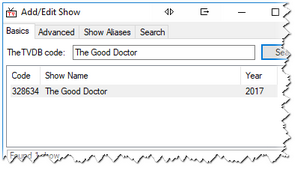
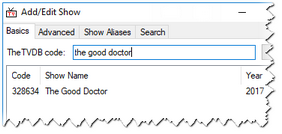
More updates and some style tweaks

diff --git a/assets/css/style.scss b/assets/css/style.scss
@@ -26,7 +26,7 @@
     padding: 0 0 10px 25px;
 }
 
-h1, h2 {
+h1, h2, h4 {
    color: #3399cc;
 }
 	
@@ -46,6 +46,10 @@ h2 a:hover, a:active {
     border-bottom: 3px solid #3399cc;
 }
 
+h4 {
+    font-size: 28px;
+    font-weight: bold;
+}
 p a:link, a:visited {
     font-weight: bold;
 }

diff --git a/userguide.md b/userguide.md
@@ -1,5 +1,5 @@
-# User Guide
-## Introduction...
+#### User Guide
+## Introduction
 As I write this guide Version 2.24 of TV Rename is out-in-the-wild and Version 2.3 is in beta making it "quite interesting" trying to keep stuff up to date. We'll do our best but any suggestions for improvements, or offers of help are more than welcome.
 
 **Note:** Comparing the live and beta versions most of the features are the same, or similar. The most recent changes have been regarding enterng show information (***Shows and Folders***), and using [theTVDB.com](http://thetvdb.com "Visit theTVDB.com") as the reference database rather than tv.com.
@@ -8,11 +8,11 @@ If you're new to TV Rename you're should probably read the [Quickstart Guide](qu
 
 If you need help, please sign up to the [forum](https://groups.google.com/forum/#!forum/tvrename "Visit the TVRename forum"), someone there will be happy to help.
 
-### Lets (not) start at the begining...
+### Lets (not) start at the beginning...
 In true technical manual fashion we're going to start at the end because, as is so often the case, it makes sense to see where your going to help figure out how to get there.
 
 ## "When to watch"
-Once you have TV Rename up and running and behaving the way you want you'll probably spend most of your time here. If you wish you can make this tab open by default by changing the startup tab in the ***General*** tab of **Options>Preferences**.
+Once you have TV Rename up and running and behaving the way you want you'll probably spend most of your time here. If you wish you can make this tab open by default by changing the Startup tab setting in the ***General*** tab of **Options>Preferences**.
 
 ![When To Watch](images/userguide/when-to-watch-01.png)
 
@@ -42,12 +42,10 @@ My Shows is where you tell TV Rename about the TV Shows you are watching (or hav
 In essence this tab (along with some of the preferences) allows you to configure the interaction between  [The TVDB](http://thetvdb.com "Visit thetvdb.com") and your "Media Library". Incidently there can be multiple storage locations including local paths or drives on your computer, mapped network shares and UNC paths. The only restrictions being that a TV Show cannot be spread across multiple locations, and removable USB drives should be set up so they always get the same path or drive letter assigned to them each time they are used. 
 
 Here, you can see a number of shows listed in the left hand panel of the window. These are the shows that TV Rename is monitoring, if a show is in your "Media Library" it will have further information associated with it (its "home" directory in the "Media Library" for example, but there is much more). In the right hand panel you can read details about the highlighted show gleaned from [The TVDB](http://thetvdb.com "Visit thetvdb.com"). 
-
 ![My Shows](images/userguide/my-shows-01.png)
-
 Below these panels are a series of buttons which allow you to manage the content. They are: -
 
-* {:.no-icon} `Add` - Adds a new show to the list. Remember you will need to add folders to for the show separately if you need to monitor it in the "Media Library". You don't need to add a folder if you only want to see the shows airdates in the ***[When to Watch](#when-to-watch "go to "When to Watch")*** tab.
+* {:.no-icon} `Add` - Adds a new show to the list. Remember you will need to add folders to for the show separately if you need to monitor it in the "Media Library". You don't need to add a folder if you only want to see the shows air-dates in the ***[When to Watch](#when-to-watch "go to "When to Watch")*** tab.
 
 * {:.no-icon} `Edit` - Edit the currently selected show.
 
@@ -59,7 +57,7 @@ Below these panels are a series of buttons which allow you to manage the content
 
 * {:.no-icon} `Details` - Toggle between showing and hiding the Detais Panel. If the panel is hidden the Show List panel expands to fill the tab.
 
-* {:.no-icon} `Open` - Opens the directory fore the highlighted show or season in explorer.
+* {:.no-icon} `Open` - Opens the directory for the highlighted show or season in explorer.
 
 * {:.no-icon} `Visit TVDB` - Visit The TVDB page for highlighted show or season.
 
@@ -71,21 +69,18 @@ Clicking the `Edit` button with a show highlighted will open the same window pre
 
 Clicking `Edit` with the **season** of a show highlighted will open the *Edit Season Rules* window - *more on this later...*
 
-Most of the information required to setup a new show needs to be entered in the ***Basics*** tab (illustrated).
-
-![addeditshow](images/userguide/addeditshow.png)
-![tvcomsearch](images/userguide/tvcomsearch.png)
+We'll start by completing the ***Basics*** tab (illustrated).
 
 In the following example, we'll add a new show called "The Good Doctor" to TV Rename.
 
 ![Add/Edit Show - Search Results](images/userguide/add-edit-show-02.png){:.pic-r}
-The first step is to enter TheTVDB's code for the show. If you know it, you can type it directly into the box, otherwise type the show's name (e.g. "The Good Doctor") and click on `Search`. TV Rename will search for matches to the text in TheTVDB's database, cache the results locally and display the matches. The search also works with partial show names. For example you could search for just "Doctor", but "Doctor" being fairly common in TV Show titles, returns over 80 results (including ours!), and you will have to delve into the list to find the show you want.
+The first step is to tell TV Rename about the show. If you know it you can enter TheTVDB's code for the show, otherwise type the show's name (e.g. "the good doctor") and click on `Search`. TV Rename will search for matches to your entry in TheTVDB's database, cache the results locally and display the matches. The search also works with partial show names. For example you could search for just "doctor", but "doctor" being fairly common in TV Show titles, returns over 80 results (including ours!), and you will have to delve into the list to find the one you want. Once you have found the correct show, click on it to highlight it.
 
-If all you want to do is see the details of the show then you're done! Just clicj `OK` at the bottom of the window and TV Rename will pull the necessary data from TheTVDB to populate the ***My Shows*** tab.
+If all you want to do is see the details of the show then you're done! Just click `OK` at the bottom of the window and TV Rename will pull the necessary data from TheTVDB to populate the ***My Shows*** tab.
 
 Once the update is complete ***My Shows*** includes "The Good Doctor" and looks like this: -
-
-
+![My Shows - New Show Added](images/userguide/my-shows-02.png)
+Additionally the ***When to Watch*** tab will now list any future episode dates.
 
 
 
@@ -97,11 +92,11 @@ You can pre-load the cache for tv.com codes by using the "Update Codes" option o
 
 The **show name** is what you like to call the show yourself. You may like to remove "The" from names, or extra info like the year that tv.com puts on some shows. If you click **Copy**, it will keep it the same as tv.com's naming.
 
-You enter the season number into the **season** field. The **timezone** is the timezone that the airdate times on the tv.com summary page are in. Most shows are Eastern USA timezone, but British shows (e.g. Jekyll) will be British Standard Time. This only has an effect on the "When to Watch" display, which then translates those times into your computer's timezone.
+You enter the season number into the **season** field. The **timezone** is the timezone that the air-date times on the tv.com summary page are in. Most shows are Eastern USA timezone, but British shows (e.g. Jekyll) will be British Standard Time. This only has an effect on the "When to Watch" display, which then translates those times into your computer's timezone.
 
-**Show next airdate** chooses if this show will appear in the "When to Watch" tab. tv.com also can include pilots, specials, and TV movies in their episode guide. If you don't check these three checkboxes, they will be ignored completely. If you check the checkbox, it will be counted as an episode. For example, Mythbusters often counts a special as an episode.
+**Show next air-date** chooses if this show will appear in the "When to Watch" tab. tv.com also can include pilots, specials, and TV movies in their episode guide. If you don't check these three checkboxes, they will be ignored completely. If you check the checkbox, it will be counted as an episode. For example, Mythbusters often counts a special as an episode.
 
-The Old option means that once data is downloaded from tv.com, and locally cached, it will never be downloaded again. (See the "Mark Old Shows" dialog, too.) Otherwise, TV Rename re-downloads data from tv.com for a show depending on how long it was since the last episode, and if the next episode's airdate is known.
+The Old option means that once data is downloaded from tv.com, and locally cached, it will never be downloaded again. (See the "Mark Old Shows" dialog, too.) Otherwise, TV Rename re-downloads data from tv.com for a show depending on how long it was since the last episode, and if the next episode's air-date is known.
 
 The rules section lets you manipulate the tv.com episode guide to suit how you have the episodes on your computer. The rules are applied in order, from top to bottom, it is possible to use the Up and Down buttons to re-prioritise them. Add, edit, and Delete will alter the rules list.
 
@@ -110,7 +105,7 @@ In this example, episodes 16 and 17 were aired as a double episode, meaning you 
 ## Add/Modify Rule
 This is the dialog for adding or editing a rule for a show's season. Choose the operation at the top, then enter the appropriate values below.
 
-![addmodifyrule](images/userguide/addmodifyrule.png)
+![add-modify-rule](images/userguide/add-modify-rule.png)
 
 
 * **Ignore** - Keep the specified episode in the guide, but don't check for it (or rename it) on disk locally.
@@ -118,8 +113,8 @@ This is the dialog for adding or editing a rule for a show's season. Choose the 
 * **Remove** - Make a an episode disappear. All episodes above will be renumbered down to fill the gap.
 * **Swap** - Swap the position of two episodes.
 * **Merge** - These episodes are all on disk locally as one multi-episode file.
-* **Insert** - Manually add an episode into the season. Episodes after are renumbered to accomodate it.
-* **Split** - Turn one episode into many, renumbering episode after the split to accomodate them.
+* **Insert** - Manually add an episode into the season. Episodes after are renumbered to accommodate it.
+* **Split** - Turn one episode into many, renumbering episode after the split to accommodate them.
 After adding a rule, you can go to the "Episode Guide" tab, select the show, and then click "Refresh". You will then be able to see (and check) the effects of the rules you've created.
 
 ## Episode Guide
@@ -151,7 +146,7 @@ TV Rename will scan your shows and look for missing/outdated files. For anything
 There are 3 types of scan you can choose from :
 
  1. **Full** - A full scan of all shows
- 2. **Recent** - Scan of all the shows that have aird in the last 7 days
+ 2. **Recent** - Scan of all the shows that have aired in the last 7 days
  3. **Quick** - Scan just the shows that are in the last 7 days and have a missing episode on disk. Plus any shows that match a media file in the download directory.
 
 ## Scan Results
@@ -181,7 +176,7 @@ A folder can be excluded from a rename check by setting rename files to no in th
 You can select items in the list and press the Delete key on your keyboard to remove them from the list. Once you are happy with the changes offered, click the Rename button at the bottom, and TV Rename will make the changes.
 
 # When to Watch
-For shows which have the "Show next airdate" option set, they will be listed here if tv.com has airdate information available. The time and date are adjusted to be in the timezone that you have Windows set to be.
+For shows which have the "Show next air-date" option set, they will be listed here if tv.com has air-date information available. The time and date are adjusted to be in the timezone that you have Windows set to be.
 
 Click on the columns to sort by them. Right-click on items to do useful related actions. For shows that have aired, an icon is shown to indicate if it is on disk (double-clicking will open it), or needs to be searched for. Double-clicking a item that isn't on disk will open the specified torrent search engine for it.
 

diff --git a/about.md b/about.md
@@ -1,4 +1,4 @@
-# About TV Rename
+#### About TV Rename
 
 ## What TV Rename isn't
 OK, before we get into all the really cool stuff TV Rename can do, let's get what it doesn't do out of the way...

diff --git a/technical.md b/technical.md
@@ -1,4 +1,4 @@
-# Under the Hood
+#### Under the Hood
 ***Right then, spanners at the ready, here we go!***
 
 ## The Registry
